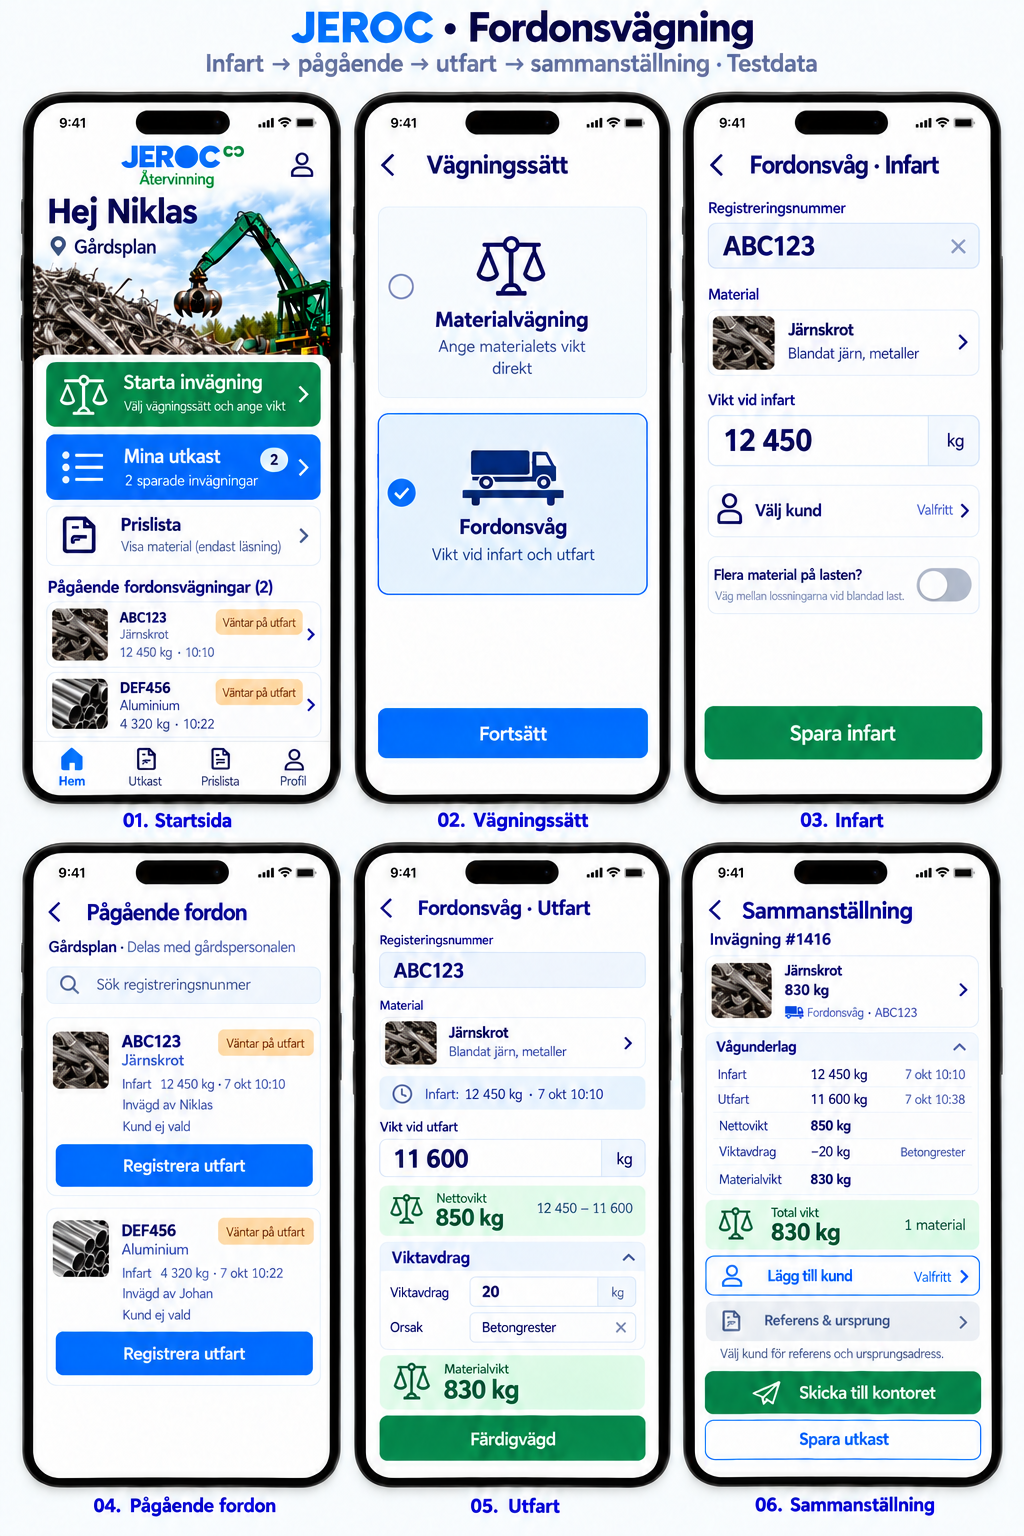
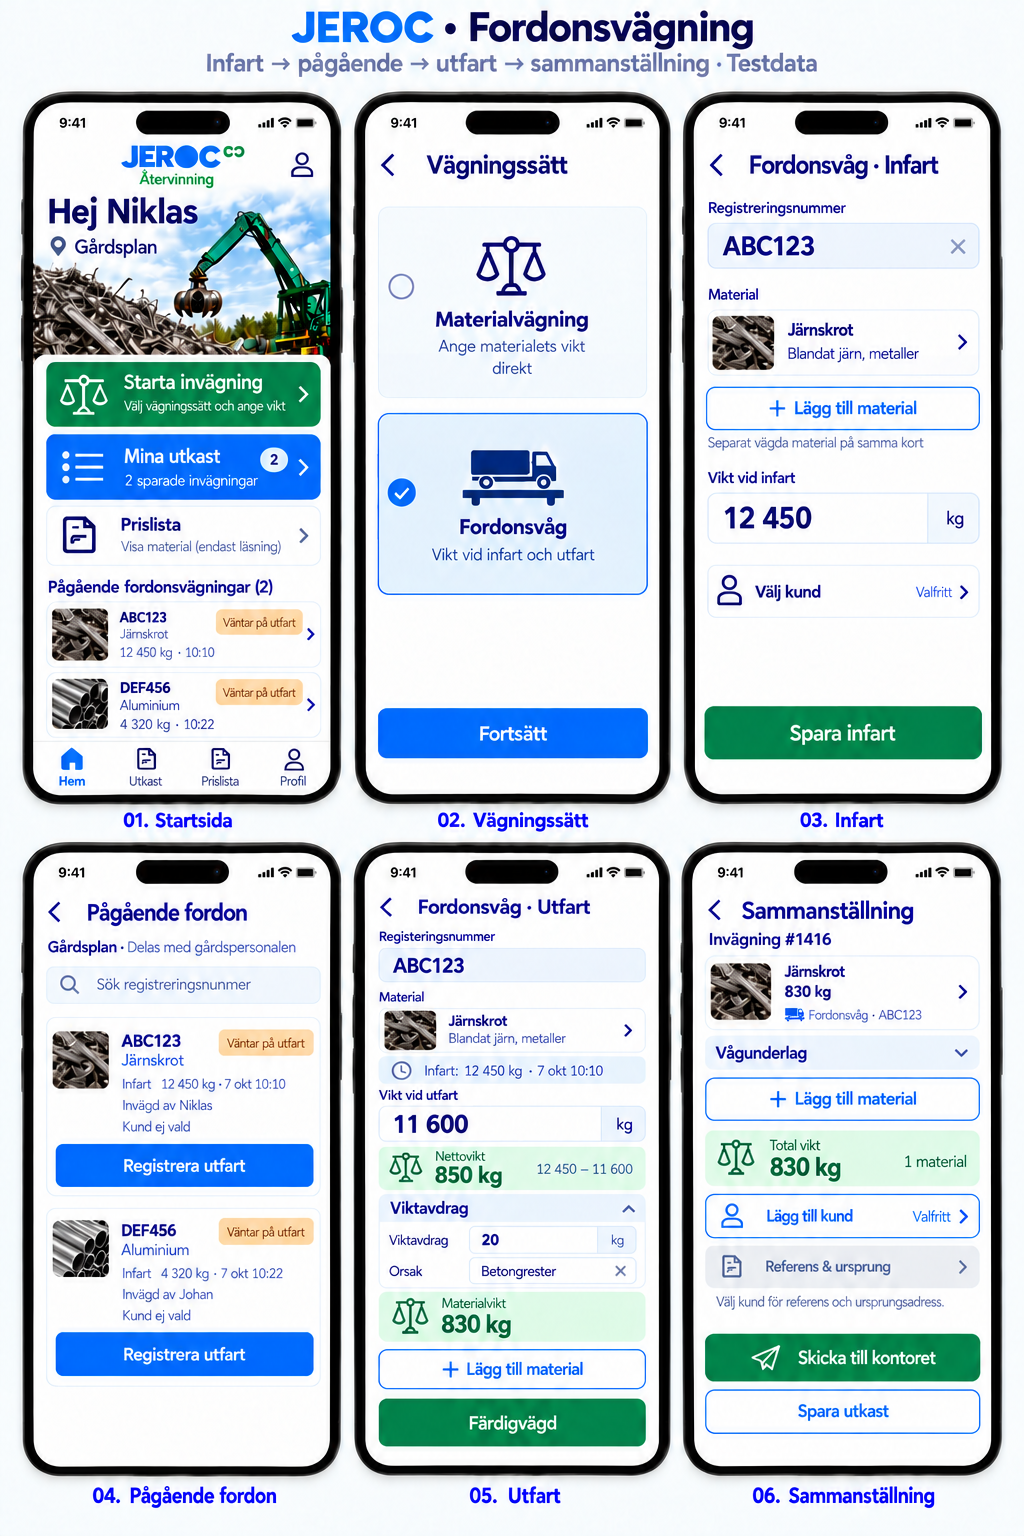
Simplify vehicle mockups with separately weighed material rows

diff --git a/docs/mockups/fordonsvag/README.md b/docs/mockups/fordonsvag/README.md
@@ -5,7 +5,7 @@ Mobilflöden för fordonsvåg, kontorets vågunderlag och en avräkningsnota i A
 | Mockup | Öppna |
 | --- | --- |
 | Mobil: infart, pågående fordon, utfart och sammanställning | [Bild](01_Mobil_Fordonsvag.png) |
-| Mobil: blandad last med mellanvägning | [Bild](02_Mobil_Blandad_Last.png) |
+| Mobil: fordonsvåg och separat vägt material på samma kort | [Bild](02_Mobil_Blandad_Last.png) |
 | Kontor: materialpris och spårbart vågunderlag | [Bild](03_Kontor_Vagunderlag.png) |
 | Avräkningsnota för fordonsvägning | [A4-PDF](04_Avrakningsnota_Fordonsvag_A4.pdf) · [Förhandsvisning](04_Avrakningsnota_Fordonsvag_A4.png) |
 
@@ -13,17 +13,17 @@ Mobilflöden för fordonsvåg, kontorets vågunderlag och en avräkningsnota i A
 
 Fordonsvägning #1416, ABC123. Infart 12 450 kg den 7 oktober 2026 kl. 10:10, utfart 11 600 kg kl. 10:38. Nettovikten är 850 kg. Viktavdrag 20 kg för betongrester ger 830 kg järnskrot. Kontorets exempelpris är 2,40 kr/kg, vilket ger 1 992,00 kr.
 
-Vägaren väljer material med den befintliga materialväljaren. Pågående fordonsvägningar delas med gårdspersonalen. Kunden är valfri när vägningen skickas till kontoret; referens och ursprungsadress kan anges först när kunden är vald. Gårdsappen visar vikter. Kontoret hanterar priser, ID-kontroll och överlämning till attest.
+Vägaren väljer material med den befintliga materialväljaren. **Lägg till material** öppnar samma materialval och vanliga viktfält för ytterligare, separat vägda artiklar på samma kort. Knappen finns vid infart, utfart och i sammanställningen. Pågående fordonsvägningar delas med gårdspersonalen. Kunden är valfri när vägningen skickas till kontoret; referens och ursprungsadress kan anges först när kunden är vald. Gårdsappen visar vikter. Kontoret hanterar priser, ID-kontroll och överlämning till attest.
 
 ![Mobilflöde för fordonsvåg](01_Mobil_Fordonsvag.png)
 
-## Blandad last
+## Fordonsvåg och separat vikt
 
-Fordonsvägning #1417, GHI456. Infart 12 450 kg, mellanvägning 12 000 kg och utfart 11 600 kg. Första lossningen ger 450 kg järnskrot, med ett viktavdrag på 20 kg: 430 kg materialvikt. Andra lossningen ger 400 kg koppar klass 1. Sammanlagd materialvikt är 830 kg.
+Vägaren tittar på lasten och tar av andra material före första fordonsvägningen. I exemplet tas 12 kg koppar klass 1 av släpet, vägs på en vanlig våg och läggs till som en egen materialrad på samma kort. Registreringen av den separata vikten kan göras vid infart, utfart eller i sammanställningen; kopparn ska fysiskt vara borttagen när infartsvikten tas.
 
-Varje lossning kopplas till sin artikel och sina vågavläsningar. Mellanvägningen blir utgångsvikt för nästa lossning.
+Fordonsvägning #1417, GHI456. Infartsvikt med bara järnskrotet kvar: 2 004 kg. Utfartsvikt efter lossning: 1 880 kg. Fordonsvågens differens ger 124 kg järnskrot. Materialraderna summeras till **124 + 12 = 136 kg**. Varje rad visar sin vägningsmetod och sitt underlag. Den separata kopparvikten dras inte av från fordonsdifferensen, eftersom kopparn redan är borttagen före infartsvikten. MVP-flödet behöver därför ingen mellanvägning eller automatisk fördelning av vikter.
 
-![Blandad last med mellanvägning](02_Mobil_Blandad_Last.png)
+![Fordonsvåg och separat materialvikt på samma kort](02_Mobil_Blandad_Last.png)
 
 ## Kontorets underlag
 
